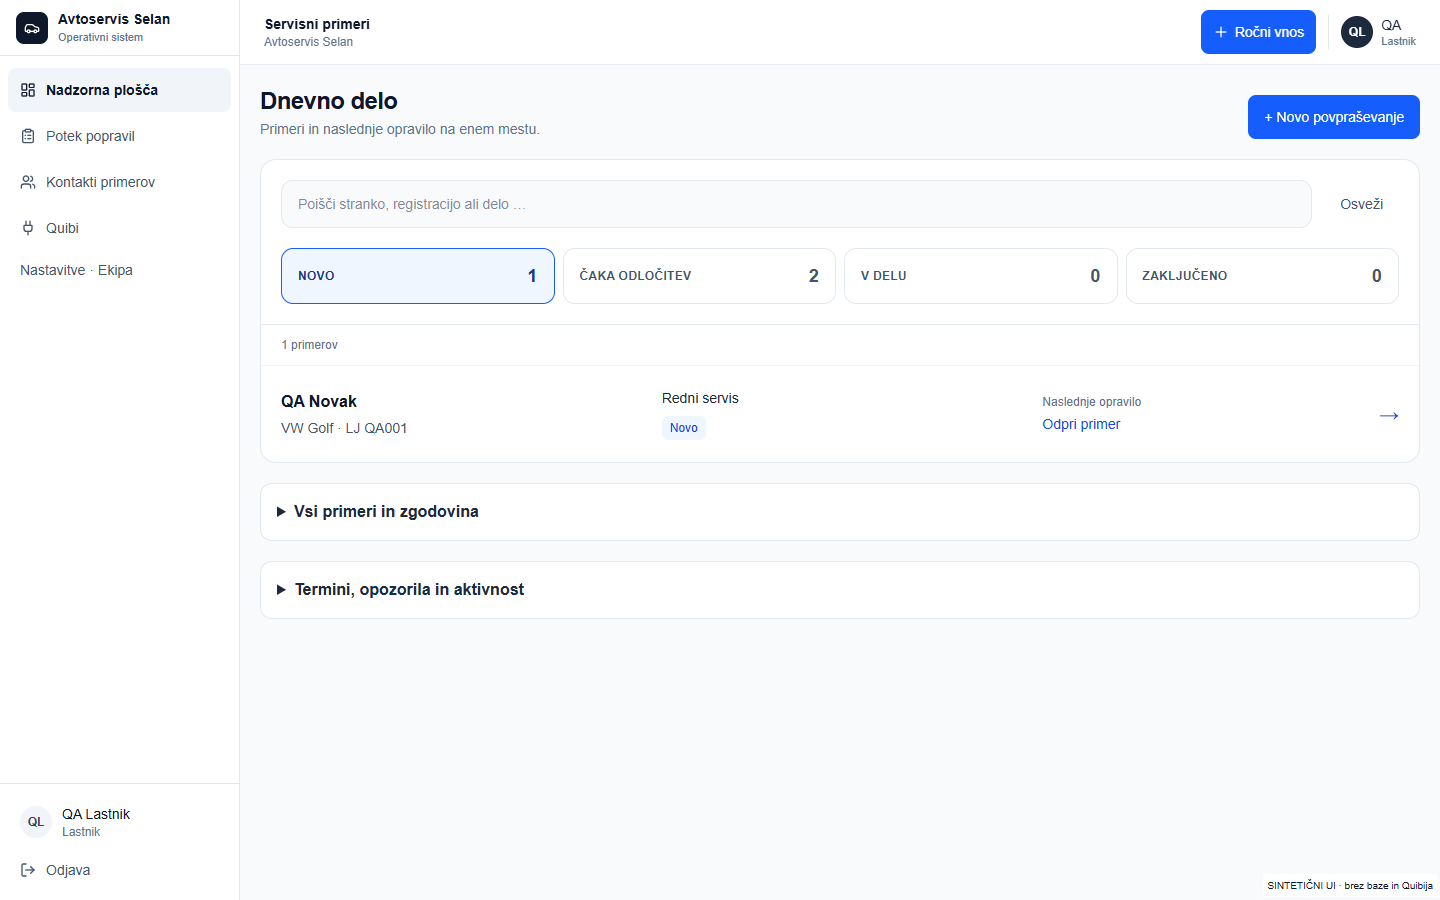
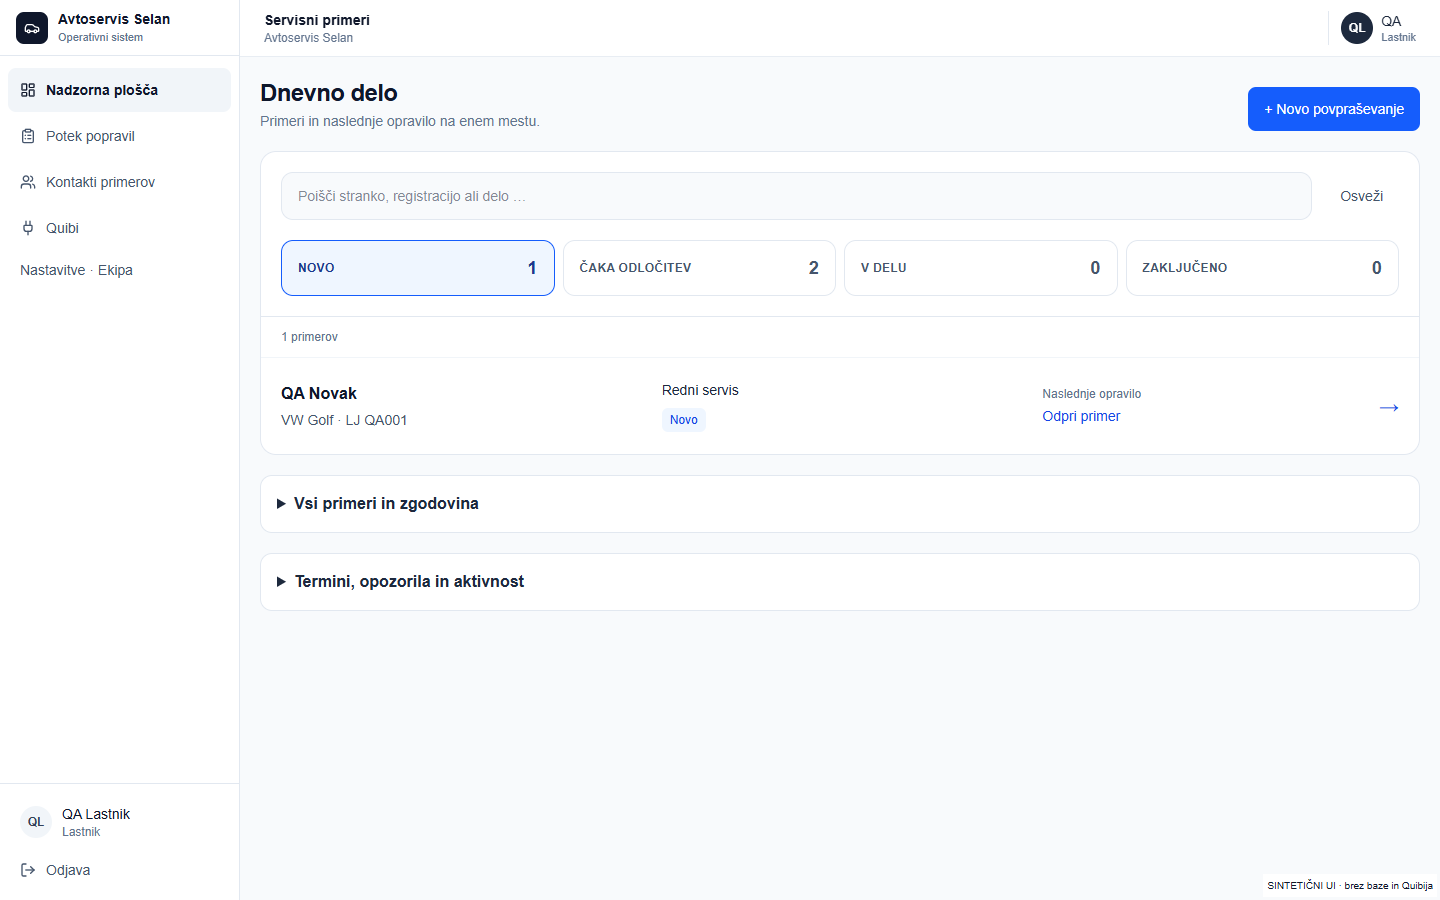
fix: send verified free service net prices to Quibi

diff --git a/src/lib/quibi/write-contract.ts b/src/lib/quibi/write-contract.ts
@@ -19,7 +19,7 @@ export function assertQuibiDevWriteAllowed(env: Record<string, string | undefine
 
 export type DocumentLine =
   | { sifra: string; kolicina: number; popust?: number; ddv_id?: string; cena?: number; opis?: string }
-  | { opis: string; enota_id: string; ddv_id: string; kolicina: number; cenaZDDV: number; popust: number };
+  | { opis: string; enota_id: string; ddv_id: string; kolicina: number; cenaZDDV: number; cenaBrezDDV?: number; popust: number };
 
 export type CreateEstimateInput = {
   numberingId: string;
@@ -51,11 +51,12 @@ export function buildEstimateBody(input: CreateEstimateInput): EstimateBody {
     if (!Number.isFinite(line.kolicina) || line.kolicina <= 0 || line.kolicina > 100000 ||
         ("sifra" in line ? !line.sifra.trim() || line.sifra.length > 100 || (line.cena != null && (!Number.isFinite(line.cena)||line.cena<0)) || (line.opis != null && (!line.opis.trim()||line.opis.length>500)) || (line.ddv_id != null&&!/^\d+$/.test(line.ddv_id)) || (line.popust != null&&(!Number.isFinite(line.popust)||line.popust<0||line.popust>100)) :
           !line.opis.trim() || line.opis.length > 500 || !/^\d+$/.test(line.enota_id) ||
-          !/^\d+$/.test(line.ddv_id) || !Number.isFinite(line.cenaZDDV) || line.cenaZDDV < 0 ||
+          !/^\d+$/.test(line.ddv_id) || (line.cenaBrezDDV!=null&&line.cenaBrezDDV!==line.cenaZDDV) || !Number.isFinite(line.cenaZDDV) || line.cenaZDDV < 0 ||
           !Number.isFinite(line.popust) || line.popust < 0 || line.popust > 100)) {
       throw new Error("QUIBI_INVALID_ESTIMATE_LINE");
     }
-    lines[String(index + 1)] = line;
+    // Live DEV requires the explicit unit-net field; retain the documented alias.
+    lines[String(index + 1)] = "sifra" in line ? line : {...line,cenaBrezDDV:line.cenaZDDV};
   });
   return {
     Glavadokumenta: {

diff --git a/src/components/layout/AppHeader.tsx b/src/components/layout/AppHeader.tsx
@@ -1,5 +1,6 @@
 "use client";
 
+import {usePathname} from "next/navigation";
 import { Menu, Plus } from "lucide-react";
 import type { DashboardShellUser } from "@/lib/auth/shellUser";
 import { shortNameFromDisplayName } from "@/lib/auth/shellUser";
@@ -15,6 +16,7 @@ export function AppHeader({
   onOpenMobileNav,
   onOpenManualEntry,
 }: AppHeaderProps) {
+  const showManualEntry=usePathname()!=="/dashboard";
   const shortName = shortNameFromDisplayName(user.displayName);
 
   return (
@@ -31,7 +33,7 @@ export function AppHeader({
 
         <div className="min-w-0 flex-1"><p className="truncate text-sm font-semibold text-slate-900">Servisni primeri</p><p className="hidden text-xs text-slate-500 sm:block">Avtoservis Selan</p></div>
 
-        <button
+        {showManualEntry&&<button
           type="button"
           onClick={onOpenManualEntry}
           aria-label="Ročni vnos"
@@ -39,7 +41,7 @@ export function AppHeader({
         >
           <Plus className="h-4 w-4" aria-hidden />
           <span className="hidden sm:inline">Ročni vnos</span>
-        </button>
+        </button>}
 
         <div className="hidden items-center gap-2 border-l border-slate-200 pl-3 md:flex">
           <span className="flex h-8 w-8 items-center justify-center rounded-full bg-slate-800 text-xs font-semibold text-white">

diff --git a/src/lib/quibi/write-contract.test.ts b/src/lib/quibi/write-contract.test.ts
@@ -108,3 +108,9 @@ test("send's HTTP guard rejects the approved-local exception without any network
 test('document header uses verified customer ID without an ignored customer block',()=>{const body=buildEstimateBody({numberingId:'2061',saleTypeId:'1',customerId:'405957',vehicleId:'2388',serviceRequestId:'00000000-0000-4000-8000-000000000001',lines:[{sifra:'TEST',kolicina:1}]});assert.equal(body.Stranka,undefined);assert.equal(body.Glavadokumenta.stranka_id,405957);});
 
 test('conflicting compatibility customer ID is rejected before any network write',async()=>{let calls=0;const client=createQuibiDevWriteClient({username:'test-only',password:'test-only',environment:env,fetcher:async()=>{calls++;return Response.json({})}});const body=buildEstimateBody(input);await assert.rejects(client.createEstimate({...body,Stranka:{id:999999}}),/CUSTOMER_MISMATCH/);assert.equal(calls,0);assert.deepEqual(withDocumentId(body,'123').Stranka,body.Stranka);});
+
+
+test('free rows send explicit verified net field and reject conflicting net aliases',()=>{
+ const body=buildEstimateBody(input);const line=body.Postavkedokumenta['1'];assert.ok(!('sifra' in line));assert.equal(line.cenaBrezDDV,line.cenaZDDV);
+ assert.throws(()=>buildEstimateBody({...input,lines:[{...input.lines[0],cenaBrezDDV:999}]}),/INVALID_ESTIMATE_LINE/);
+});
